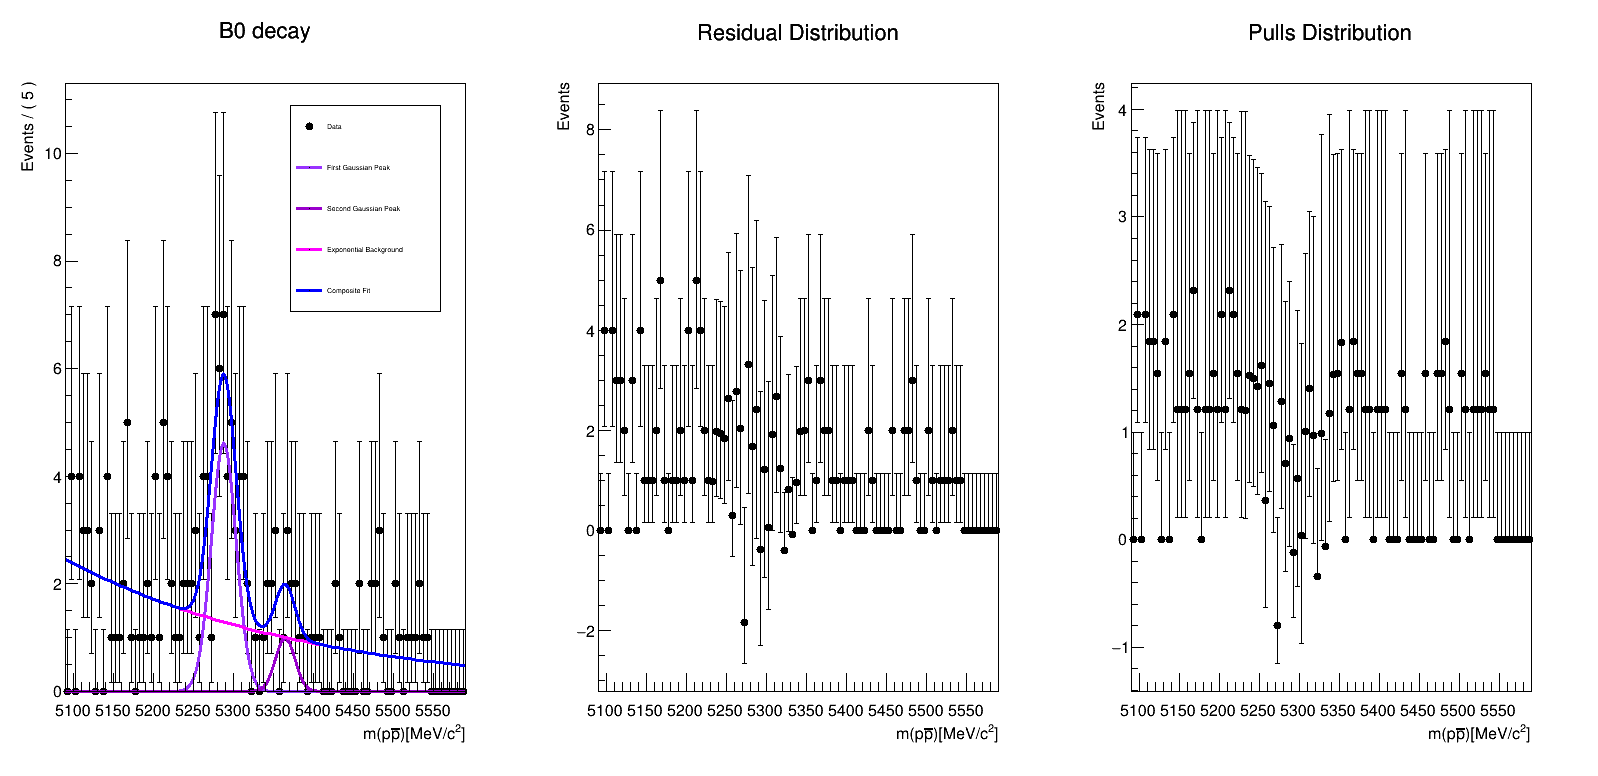
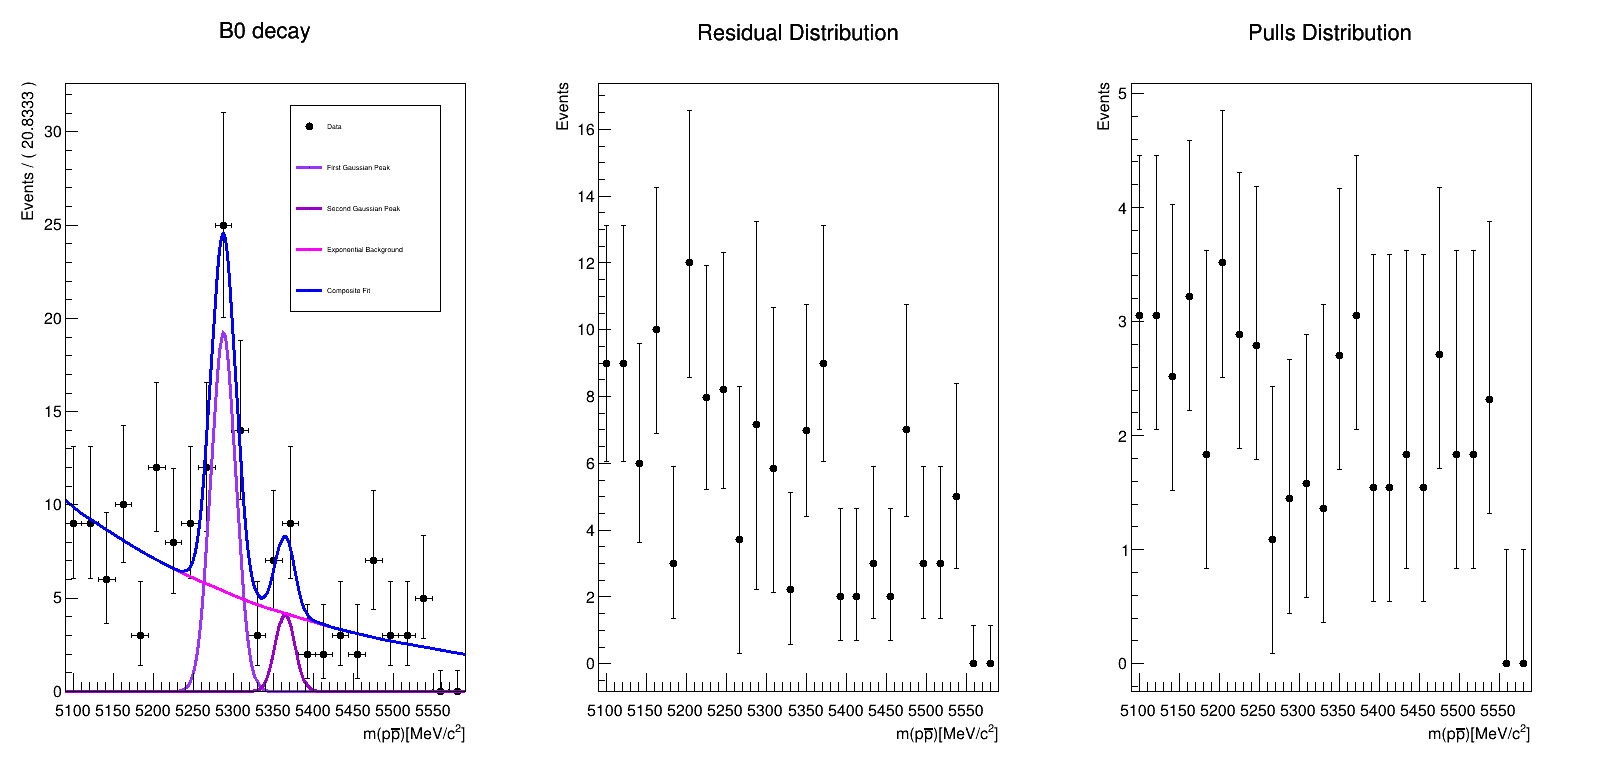
MINOS is complete, starting submit branch

diff --git a/MINOS.cpp b/MINOS.cpp
@@ -67,7 +67,7 @@ int MINOS() {
     ofstream myfile;
     myfile.open("minos_fit.txt");
 
-    // Minimizing via MINUIT with MIGRAD and printing the results
+    // Minimizing via MINUIT with MIGRAD and printing the results to txt file
     m.setVerbose(kTRUE);
     m.migrad();
     dm2.Print();
@@ -76,9 +76,11 @@ int MINOS() {
     //RooFitResult * result = m.save("m", "MIGRAD"); // forse lui lo vuole solo alla fine, quindi su file di testo scrivo solo gli altri risultati
     //result->Print("v"); // con v stampa anche distance e le global corrections 
 
-    myfile << "MIGRAD results: (Delta m)^2 = " << dm2 << " +/- " << dm2.getError() << " eV^2" << '\n'; 
-    myfile << "\t \t \t (sin(2theta))^2 = " << mixing << " +/- " << mixing.getError() << '\n'; 
+    myfile << "MIGRAD results: \n(Delta m)^2 = " << dm2 << " +/- " << dm2.getError() << " eV^2" << '\n'; 
+//    myfile << "\t \t \t (sin(2theta))^2 = " << mixing << " +/- " << mixing.getError() << '\n'; 
+    myfile << "(sin(2theta))^2 = " << mixing << " +/- " << mixing.getError() << '\n'; 
     //result->printArgs(myfile); 
+    myfile << "\n*****************************\n"; 
 
     RooPlot* contour = m.contour(mixing, dm2, 1, 2, 0); // up to 3 sigmas
     contour->SetTitle("Contour plot");
@@ -88,30 +90,36 @@ int MINOS() {
     contour->Draw();    
     c2->Print("minos_likelihood.png");
 
-    // Running HESSE for the parameters and printing the results
+    // Running HESSE for the parameters and printing the results to txt file
     m.setVerbose(kFALSE);
     m.hesse();               
     dm2.Print();
     mixing.Print();
 
-    myfile << "HESSE results: (Delta m)^2 = " << dm2 << " +/- " << dm2.getError() << " eV^2" << '\n'; 
-    myfile << "\t \t \t (sin(2theta))^2 = " << mixing << " +/- " << mixing.getError() << '\n';
+    myfile << "HESSE results: \n(Delta m)^2 = " << dm2 << " +/- " << dm2.getError() << " eV^2" << '\n'; 
+//    myfile << "\t \t \t (sin(2theta))^2 = " << mixing << " +/- " << mixing.getError() << '\n';
+    myfile << "(sin(2theta))^2 = " << mixing << " +/- " << mixing.getError() << '\n';
+    myfile << "\n*****************************\n"; 
+
 
     // result = m.save("m1", "HESSE");
     // result->Print("v"); 
     // myfile << "HESSE results: " << *result << '\n'; 
 
-    // Running MINOS only on mass splitting parameter, printing the result
+    // Running MINOS only on mass splitting parameter and printing the result to txt file
     m.minos(dm2);
     dm2.Print();
-    myfile << "MINOS results: (Delta m)^2 = " << dm2 << " +/- " << dm2.getError() << " eV^2" << '\n';     
-    myfile << "\t \t \t";
+    myfile << "MINOS results: \n(Delta m)^2 = " << dm2 << " +/- " << dm2.getError() << " eV^2" << '\n';     
+    //myfile << "\t \t \t";
 
-    // Saving all results from MINOS fit
+    // Saving all results from MINOS fit on txt file
     RooFitResult * result = m.save("m", "MINOS"); 
     result = m.save("m2", "MINOS");
     result->Print("v"); 
     //myfile << "MINOS results: " << *result << '\n'; 
+
+//  result->floatParsFinal().printMultiline(myfile, 1111, kTRUE);
+    result->printMultiline(myfile, 1111, kTRUE);
     result->printValue(myfile);
     
     myfile.close();

diff --git a/B0_decay.cpp b/B0_decay.cpp
@@ -15,6 +15,7 @@ using namespace RooFit;
 int B0_decay() {
   // first declare the observable
   RooRealVar x("x", "m(p-pbar)", 5090., 5590.);
+  x.setBins(24);
 
   // background model
   RooRealVar c("c", "exponential par", -0.001, -1.,

diff --git a/README.md b/README.md
@@ -4,3 +4,5 @@ First part of MINOS is complete
 Added txt file and png for MINOS results
 MINOS almost complete <br/>
 First part of ARIADNE <br/>
+MINOS almost ready to submit
+MINOS is complete, starting submit branch
